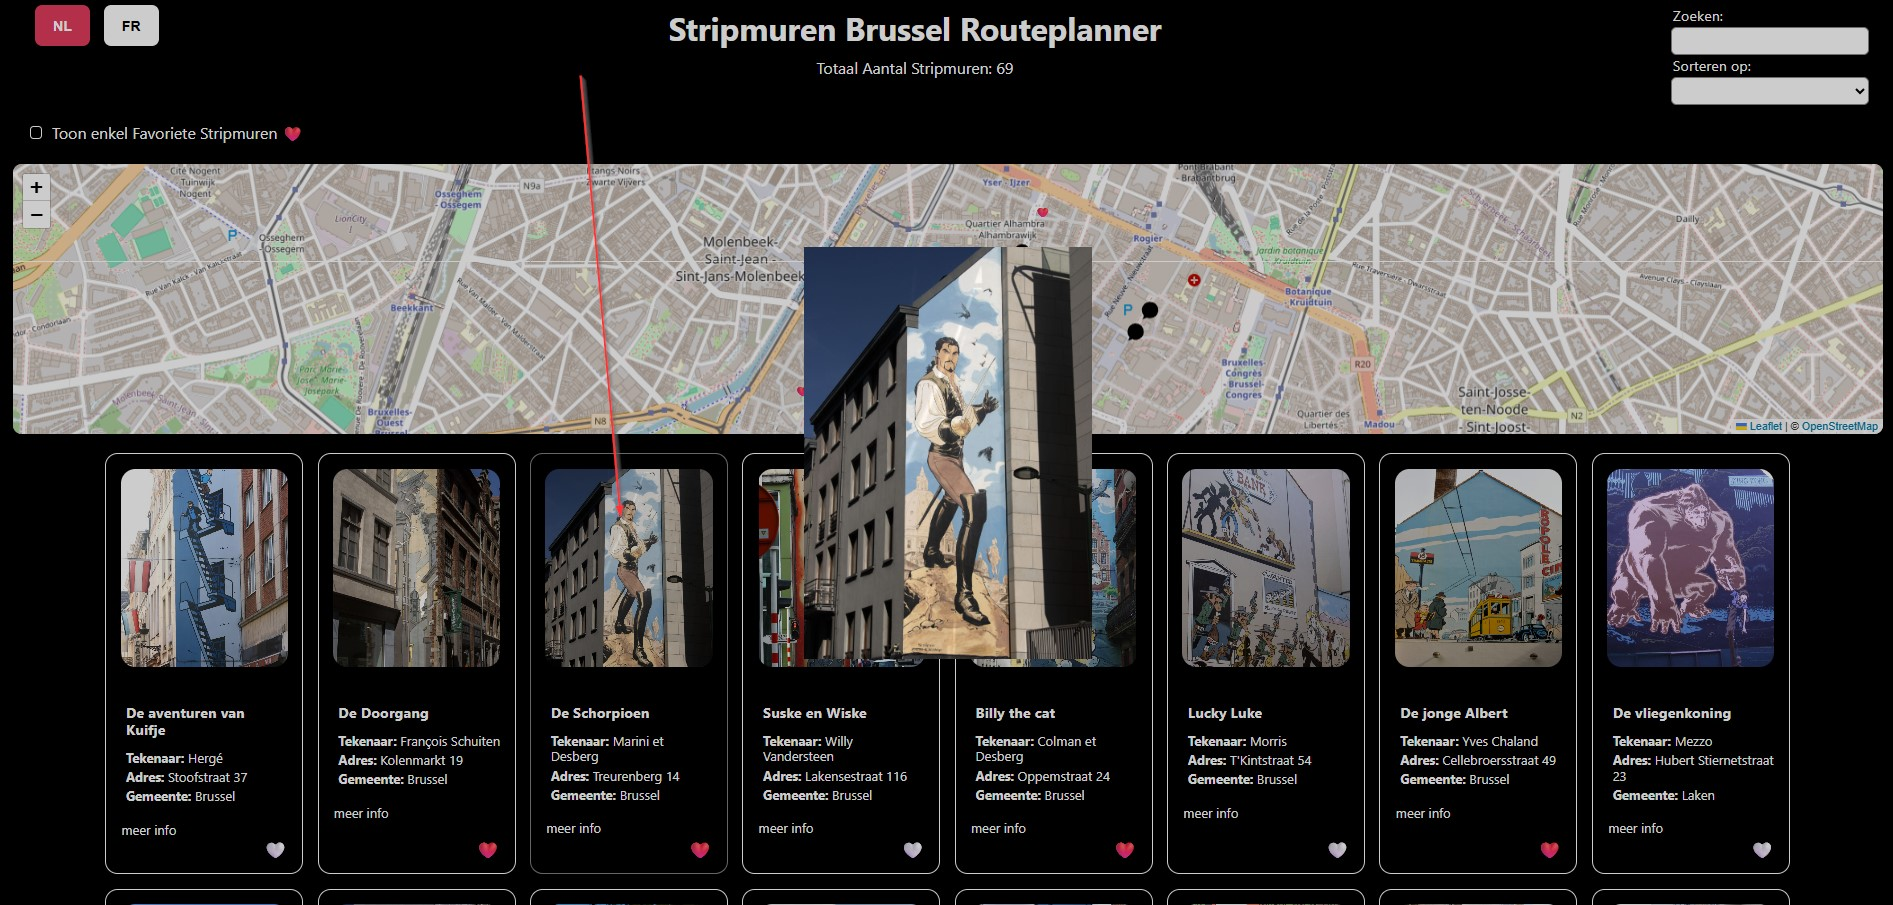
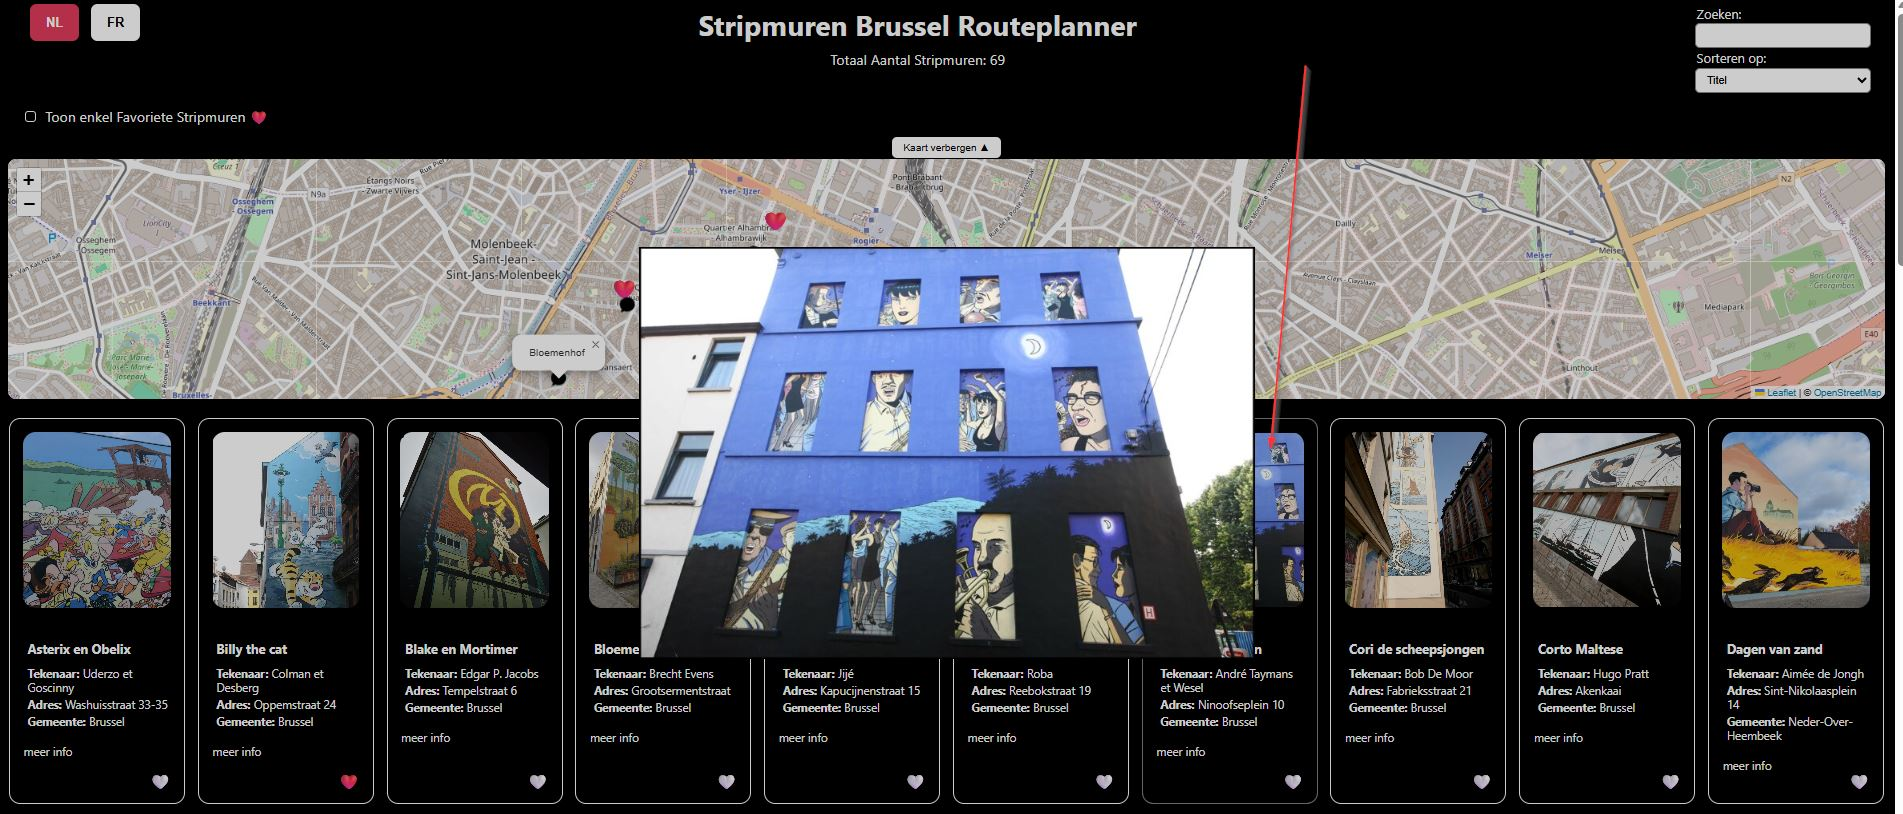
update README
Wijzigen screenshot met nieuw event (kaart verbergen/tonen)
Update technische informatie
Update styling informatie
Toevoegen uitleg functionaliteit "kaart tonen/verbergen"

diff --git a/README.md b/README.md
@@ -28,7 +28,7 @@ Gebruikers kunnen:
 ### Functionaliteiten 
 
 - Taal NL/FR: klik op icoontje om de taal van de volledige website te wijzigen 
-    voorkeur wordt opgeslagen en duidelijk visuelee aangeduidt (roze kleur))
+    voorkeur wordt opgeslagen en duidelijk visueel aangeduid (roze kleur))
 
 - Zichtbaarheid aantal stripmuren: elke keer wordt het aantal stripmuren (ook na filtering/enkel favoriete muren tonen enz) duidelijk getoond
 
@@ -40,7 +40,7 @@ Gebruikers kunnen:
 - Sorteren op: dropdown met mogelijkheid om de stripmuren alfabetisch te sorteren op:
     - tekenaar 
     - titel
-    Deze sortering kan ook gebruikt worden in combinatie met filtering en favoriete muren
+  Deze sortering kan ook gebruikt worden in combinatie met filtering en favoriete muren
 
 - Toon enkel Favoriete Stripmuren: checkbox die overschakelt naar aangeduide favoriete stripmuren = stripmuren met ❤ icoontje (aantal ook zichtbaar)
 
@@ -55,6 +55,8 @@ Gebruikers kunnen:
     - routeinstructies die zichtbaar zijn op de map (je kan volgen waar je zit bij scrollen op de instructie)
     - routeinstructies zijn in de taal van de website (NL of FR)
 
+- Button Kaart verbergen / Kaart tonen: zorgt voor weergave van enkel de stripmuurkaarten of standaard weergave van zowel stripmuurkaarten als map met locatie van de stripmuurkaarten (points)
+
 - Map: bevat alle stripmuren die getoond worden onder de map
 
     - stripmuren worden aangeduid met een tekstballon icoontje
@@ -66,7 +68,7 @@ Gebruikers kunnen:
 - Stripmuurkaarten - Foto:
     
     - elke stripmuurkaart heeft een foto
-    - hover over de foto om deze grote te zien
+    - hover over de foto om deze groter te zien
 
 - Stripmuurkaarten - Titel:
 
@@ -95,7 +97,7 @@ Gebruikers kunnen:
     - klik 🤍 aan en het icoontje wijzigt naar favoriet = ❤ icoontje
     - dit wordt ook onmiddellijk op de map gewijzigd naar een ❤ icoontje ipv tekstballon
     - klik ❤ aan en het icoontje wijzigt naar favoriet = 🤍 icoontje
-    - dit wordt ook onmiddellijk op de map gewijzigd terug naar tekstballon ip een ❤ icoontje
+    - dit wordt ook onmiddellijk op de map gewijzigd terug naar tekstballon ipv een ❤ icoontje
 
 
 ## 2. Gebruikte API's met links
@@ -121,16 +123,16 @@ Dataset:
 ### 3.1 DOM-manipulatie:
 
     Selecteren van elementen: 
-        - main.js lijnnr 13-22, 101-102, 105-125 (document.getElementById, querySelector, ClassList)
+        - main.js lijnnr 13-25, 104-105, 108-128 (document.getElementById, querySelector, ClassList)
         - render.js lijnnr 87
 
     Renderen van HTML kaarten: 
         - file render.js: lijnnr 30-35 + 54-94
 
     Event listeners:
-        - main.js lijnnr 213-214 & 273 & 346 = click events (taal en favorieten en popup kaart en bereken route)
-        - main.js lijnr 218 = input event (zoeken)
-        - main.js lijnnr 230 & 240  = change event (sorteren en filteren favorieten)
+        - main.js lijnnr 230 & 243-244 & 303 & 372 = click events (inklapbare map, taal en favorieten en popup kaart en bereken route)
+        - main.js lijnr 248 = input event (zoeken)
+        - main.js lijnnr 260 & 270  = change event (sorteren en filteren favorieten)
 
 ### 3.2 Modern JavaScript:
 
@@ -138,70 +140,70 @@ Dataset:
         gebruikt voor waarden die enkel geinitieerd en niet heringesteld worden
         - api.js lijnnr 5 & 10 & 16 & 17
         - language.js lijnnr 6 & 191
-        - main.js lijnnr 13-41 & 128 & 187 & 219 & 231 & 242 & 275 & 279 & 302 & 327 & 336 & 348 & 351 & 355 & 399 & 403 & 404 & 416 & 418 & 422
+        - main.js lijnnr 13-44 & & 76 & 95 & 131 & 191 & 210 & 249 & 261 & 272 & 305 & 309 & 332 & 357 & 366 & 378 & & 381 & 385 & 429 & 433 & 434 & 446 & 448 & 452 
         - map.js lijnnr 19-22 & 39
 
     - let:
         gebruikt voor variabele waarden (worden heringesteld)
-        - main.js lijnnr 50-61
+        - main.js lijnnr 53-64
         - render.js lijnnr 5-49 & 87
 
     - template literals:
         vooral gebruikt voor HTML structuur dynamisch op te bouwen
         - api.js lijnnr 13 (voor error foutmelding, met literals duidelijker/leesbaarder)
-        - main.js lijnnr 41 & 140-141 & 146-147 
+        - main.js lijnnr 44 & 144-145 & 150-151 
         - render.js lijnnr 30-35 & 54-81
 
     - iteratie over arrays
         door mijn (lijst)items loopen om de UI te renderen
-        - main.js lijnnr 70 & 94 (forEach)
-        - main.js lijnnr 161 & 177 (for)
+        - main.js lijnnr 73 & 97 (forEach)
+        - main.js lijnnr 165 & 181 (for)
         - render.js lijnnr 90
 
     - array methodes
         sort en filter functies gebruikt (MDN tutorial)
-        - main.js lijnnr 191 & 196 (.sort)
-        - main.js lijnnr 53 & 290 & 418 (.filter)
+        - main.js lijnnr 195 & 200 (.sort)
+        - main.js lijnnr 56 & 320 & 448 (.filter)
 
     - arrow functions
         waar duidelijk gebruikt voor events en array methodes
-        - main.js lijnnr 53 & 70 & 94 & 191 & 196 & 290 & 418 (array methodes)
-        - main.js lijnnr 213-214 & 218 & 230 & 240 & 346 (events)
+        - main.js lijnnr 56 & 73 & 97 & 195 & 200 & 320 & 448 (array methodes)
+        - main.js lijnnr 230 & 243-244 & 248 & 260 & 270 & 376 (events)
 
     - conditional (ternary) operator 
-        moderne if..else gebruikt bij condities met 1 lijn code als resultaat voor leesbaarheid - zie ook functie updateStatus in main.js lijnnr 135
+        moderne if..else gebruikt bij condities met 1 lijn code als resultaat voor leesbaarheid - zie ook functie updateStatus in main.js lijnnr 139 en updateToggleMapText in main.js lijnnr 209
         - language.js lijnner 69 & 70
-        - main.js lijnnr 139-141 & 145-147 & 162 & 298 & 360-362 & 390-392 
+        - main.js lijnnr 143-145 & 149-151 & 166 & 328 & 390-392 & 420-422 
         - map.js lijnnr 19 & 22
         - render.js lijnnr 9 & 13 & 17 & 21 & 36-45 & 49
 
     - Callback functions 
         Event listeners gebruiken callbacks omdat code pas uitgevoerd wordt wanneer event plaatsvindt
-        - main.js lijnnr 213-214 (callback = () => switchLanguage("NL") of ("FR"), wordt doorgegeven aan addEventListener)
-        - main.js lijnnr 218 & 230 & 240 & 273 (callback = () => {...})
-        (filter callbacks: filter roept mijn functie aan om te beslissen welke elementen blijven)
-        - main.js lijnnr 53 & 290 & 418
+        - main.js lijnnr 243-244 (callback = () => switchLanguage("NL") of ("FR"), wordt doorgegeven aan addEventListener)
+        - main.js lijnnr 248 & 260 & 270 & 303 & 376 (callback = () => {...})
+        - main.js lijnnr 56 & 320 & 448 (filter callbacks: filter roept mijn functie aan om te beslissen welke elementen blijven)
+        - main.js lijnnr 73 & 97
         (forEach callbacks =(entry => ... en img => ..) : forEach voert mijn functie uit voor elk element )
-        - main.js lijnnr 70 & 94
+        
 
     - async/await/promises
         - api.js async function fetchMurals() 
-        - main.js lijnnr 413-433 async function loadMurals() met try/catch 
+        - main.js lijnnr 443-473 async function loadMurals() met try/catch 
 
     - Observer API
-        - main.js lijnnr 61-96 IntersectionObserver (lazy image loading)
+        - main.js lijnnr 64-99 IntersectionObserver (lazy image loading)
 
     - Local Storage
-        - main.js lijnnr 48-56 & 100 & 296 (favoriteMurals & PreferredLanguage)
+        - main.js lijnnr 51-59 & 103 & 326 (favoriteMurals & PreferredLanguage)
 
 ### 3.3 Data & API:
 
     - Fetch API: api.js lijnnr 10 fetch(API_URL)
 
     - JSON :
-        - main.js lijnnr 52 JSON.parse (omzetten string naar JS object (array))
+        - main.js lijnnr 55 JSON.parse (omzetten string naar JS object (array))
         tussendoor ongeldige id's wegfilteren 
-        - main.js lijnnr 54 JSON.stringify (omzetten array naar string om propere data opnieuw opslaan (localStorage))
+        - main.js lijnnr 57 JSON.stringify (omzetten array naar string om propere data opnieuw opslaan (localStorage))
 
 ### 3.4 Opslag en validatie
 
@@ -245,18 +247,21 @@ Dataset:
 
     - Gebruiksvriendelijke elementen (verwijderknoppen, icoontjes,..)
 
-        checkbox "toon enkel favoriete muren" (index.html lijnnr 54-55)
-            style.css lijnnr 105-144 & 161-166 & 374-379 & 449-458 & 465-470
+        Button "Toon kaart/verberg kaart" geeft je de mogelijkheid om gebruiksvriendelijk door alle kaarten te scrollen zonder dat de kaart "in de weg" staat (index.html lijnnr 61-63)
+            style.css lijnnr 174-208 & 530-549 
 
-        button "bereken route" (verschijnt enkel bij check favoriete muren=true (zie main.js lijnnr 247-263 & 308-317))
-            style.css lijnnr 92-104 & 460
+        checkbox "toon enkel favoriete muren" (index.html lijnnr 54-55)
+            style.css lijnnr 105-144 & 160-166 & 415-420 & 490-499 & 506-511
+
+        button "bereken route" (verschijnt enkel bij check favoriete muren=true (zie main.js lijnnr 277-293 & 338-347))
+            style.css lijnnr 92-104 & 501
 
         aanklikbaar icoontje (❤) voor aanduiden favoriete stripmuur (render.js lijnnr 76-78 )
-            style.css lijnnr 296-313
+            style.css lijnnr 343-354
 
 
         buttons voor taal NL/FR (index.html lijnnr 20-23)
-            style.css lijnnr 39-57 & 
+            style.css lijnnr 39-57 & 447-450
 
         dropdown voor sorteren op titel, tekenaar (index.html lijnnr 39-45)
             style.css lijnnr 65-90
@@ -264,8 +269,8 @@ Dataset:
     - Responsive design
         style.css bestaat uit volgende delen:
             - MOBILE FIRST (start lijnnr 23) voor kleine schermen tot 700px
-            - TABLET (start lijnnr 347) voor schermen van 701px tot 1099px
-            - DESKTOP (start lijnnr 393) voor desktop (vanaf 1100px)
+            - TABLET (start lijnnr 388) voor schermen van 701px tot 1099px
+            - DESKTOP (start lijnnr 434) voor desktop (vanaf 1100px)
 
 ### 3.6 Tooling & structuur:
 
@@ -315,6 +320,11 @@ Dataset:
 
 - Tablet/phone screenshot
 ![Overzicht Applicatie Klein](screenshots/overzicht-phone.jpg)
+
+- Button Kaart verbergen : overzichttelijke weergave van alle stripmuurkaarten
+![Overzicht Applicatie zonder Kaart](screenshots/overzicht-zonder-kaart.jpg)
+
+- Button Kaart tonen: terug zichtbaar maken van de kaart (zie Algemene screenshot)
 
 - Taal NL/FR: klik op icoontje om de taal van de volledige website te wijzigen (voorkeur wordt opgeslagen)
 ![Taal FR](screenshots/taal.jpg)
@@ -378,7 +388,7 @@ Dataset:
 ### AI chatlog
 
 00. Grid layout hulp gevraagd vooraf (nog geen account toen) zie zondag 8 maart 2026 wijzigingen in Git (deze chat heb ik jammergenoeg niet opgeslagen) - maar deze heb ik zelf teruggedraaid omdat mijn eigen idee toch leuker was tov het overnemen van Grid layout (Grid layout hebben we niet gezien in cursus Web Basic, enkel flex) - zie post 9. 
-0. Ik had de tekst van mijn chat wel gekopieerd naar een bestand. Toen gevraagd en account aanmaken was juiste oplossing. Om volledig te zijn, voeg ik wel het word bestand toe van vooraf gevraagde hulp (zie AI chatlog.docx in folder WEB ADVANCED PROJECT). Deze bevat:
+0. Ik had de tekst van mijn chat wel gekopieerd naar een bestand. Toen gevraagd en account aanmaken was juiste oplossing. Om volledig te zijn, voeg ik wel het word bestand toe van vooraf gevraagde hulp (zie AI chatlog.docx rechtstreeks in folder stripmuren). Deze bevat:
     - vraag over style.css die error gaf zolang ik nog met live server werkte (pag1)
     - vraag over bijkomende file waarbij ik export was vergeten (pag 3)
     - vraag over hartjes icoon (hoe dit gebruiken) (pag 5)
